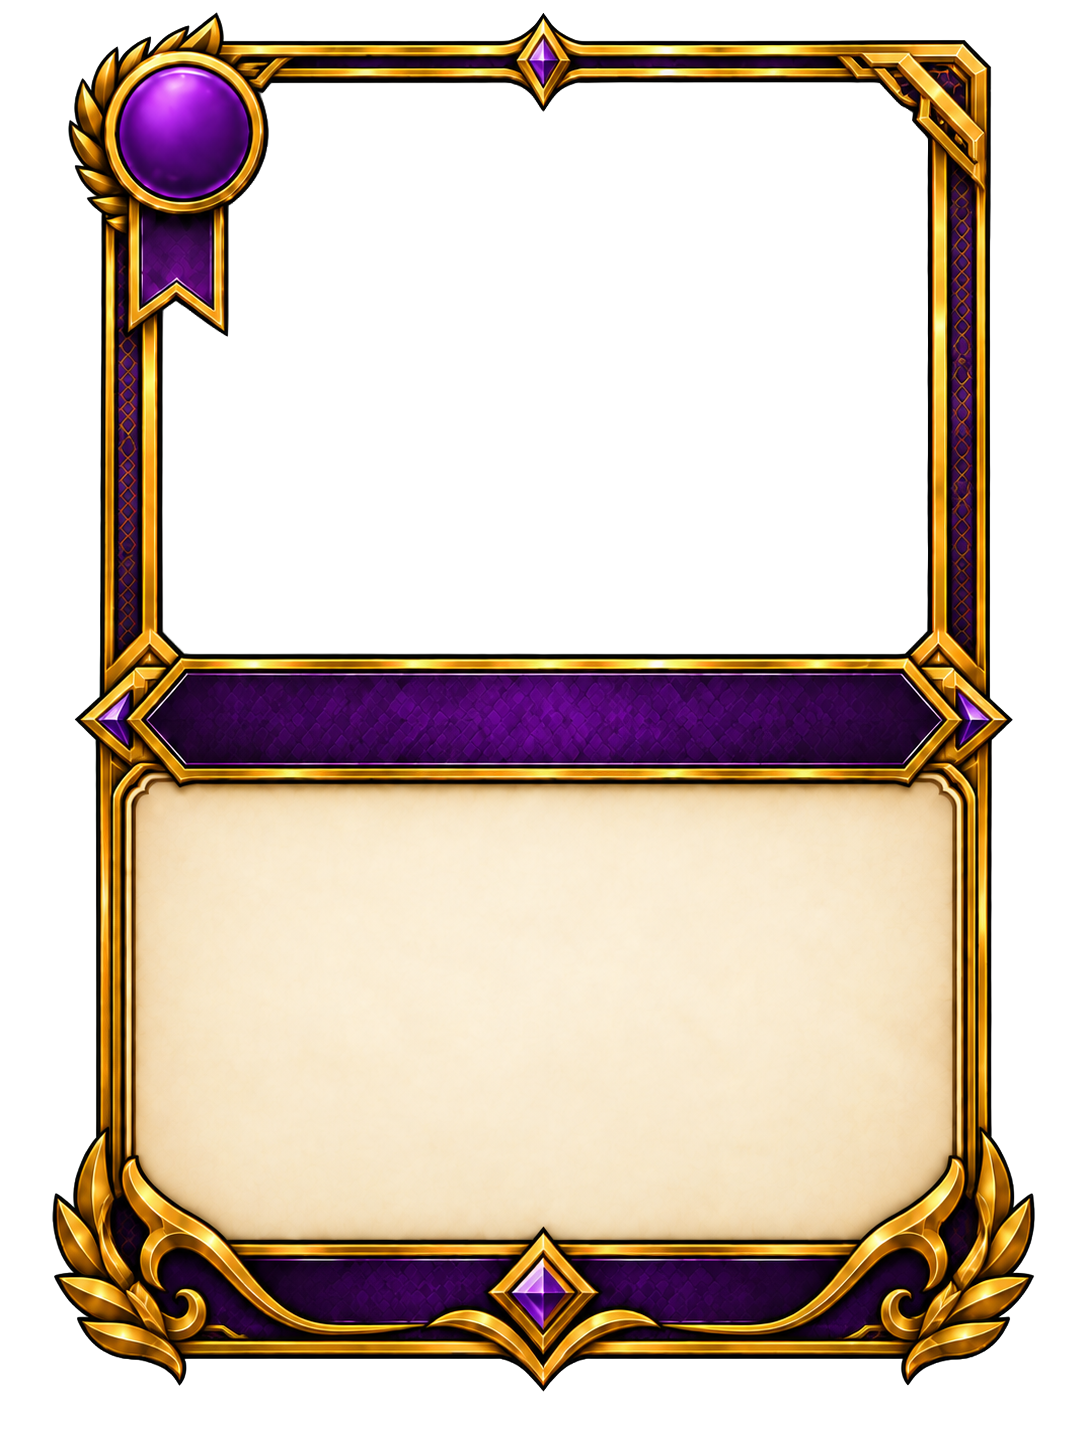
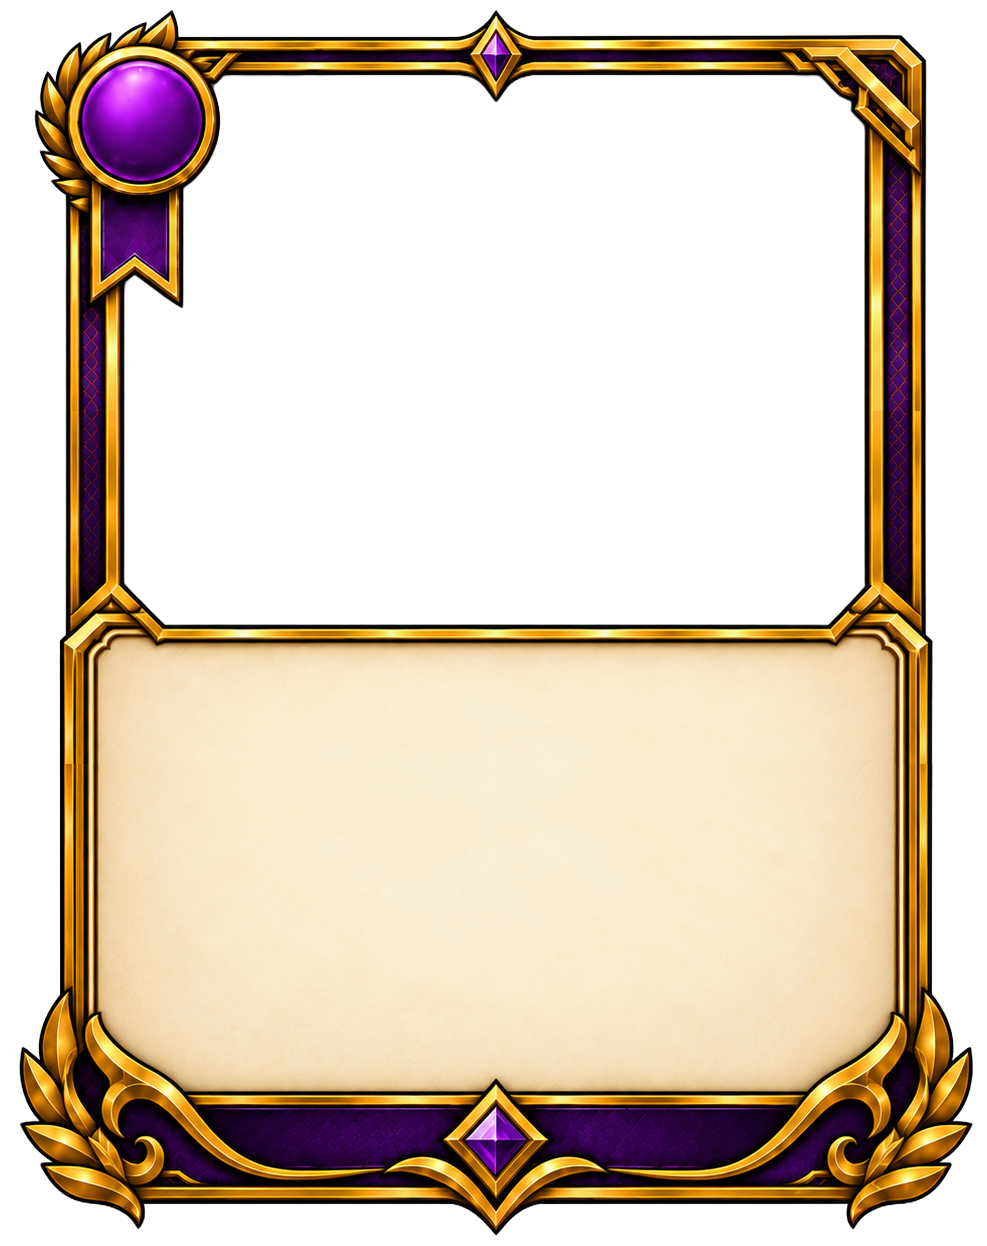
Card face: the name big and black on the parchment, on the nameplate-free frames
The designer's revised frames drop the name banner. The name is now set in
Cinzel, black, at the top of the parchment, fitted to its width; the tag and
era sit under it in gold; the rules follow. Both frames (Character
1103×1426, Event 987×1246 fitted into the same box) get their own window,
medallion, ribbon and parchment geometry. The tag pill and the era line are
gone.

Claude-Session: https://claude.ai/code/session_01CdCWBBELLp3cWMWqqhgQtC

diff --git a/src/ui/theme.css b/src/ui/theme.css
@@ -1518,59 +1518,55 @@ body.board-shake .battlefield { animation: board-shake 0.32s cubic-bezier(0.36, 
 @media (prefers-reduced-motion: reduce) { .hand-wrap { transition: none; } .hand-wrap.nudge { animation: none; } .turn-flash { animation: turn-flash 0.6s ease-out forwards; } }
 
 /* ---------- The card face on the frame (docs/card-template.md) ----------
-   The designer's frame is one WebP with its art window knocked out; the portrait sits under it and everything else is
-   text placed by percentages of the card's width (cqw), so the same layout holds in the hand (~130px) and in the
-   Codex (~400px). Hand-size type has pixel floors so names and numbers stay legible; the parchment carries the
-   summary there and the full abilities on the big card, scrolling when they run long. */
-.card.tpl { container-type: inline-size; width: var(--card-w); height: auto; aspect-ratio: 1103 / 1426; display: block; overflow: visible; background: none !important; border: 0 !important; border-radius: 0 !important; clip-path: none !important; box-shadow: none; filter: drop-shadow(0 8px 16px rgba(0, 0, 0, 0.6)); color: var(--ink); font-family: var(--font); }
+   The designer's frames are WebP files with the art window knocked out (Character 1103 x 1426; Event 987 x 1246,
+   fitted into the same box): the portrait sits under the frame and everything else is text placed by percentages of
+   the card's width (cqw), so one layout holds in the hand (~130px) and in the Codex (~400px). The frames carry no
+   nameplate: the name is set big and black at the top of the parchment, the tag and era under it in gold, then the
+   rules (the summary at hand size; every ability and the blurb on the big card, scrolling when they run long). */
+.card.tpl { container-type: inline-size; width: var(--card-w); height: auto; aspect-ratio: 1103 / 1426; display: block; overflow: visible; background: none !important; border: 0 !important; border-radius: 0 !important; clip-path: none !important; box-shadow: none !important; filter: drop-shadow(0 8px 16px rgba(0, 0, 0, 0.6)); color: var(--ink); font-family: var(--font); }
 .card.tpl::before, .card.tpl::after { content: none !important; display: none !important; }
-/* A box-shadow on a frame with transparent corners paints a rectangle, so no rule may set one: glows are drop-shadows. */
-.card.tpl { box-shadow: none !important; }
-.card.tpl:not(.big) .tpl-tag { display: none; }
-.deck-panel .deck-cards .card.tpl:first-child { filter: drop-shadow(0 12px 22px rgba(0, 0, 0, 0.65)) drop-shadow(0 0 12px var(--pc-soft)); }
-.hand .card-wrap.unaffordable .card.tpl { filter: saturate(0.4) brightness(0.75) drop-shadow(0 8px 16px rgba(0, 0, 0, 0.6)); }
 .card.tpl.big { --bw: min(78vw, 400px); width: var(--bw); height: auto; aspect-ratio: 1103 / 1426; display: block; max-height: none; }
 .card.tpl > * { position: absolute; }
-.card.tpl .tpl-art { left: 12.7cqw; top: 7.4cqw; width: 74.2cqw; height: 51.8cqw; z-index: 1; overflow: hidden; display: grid; place-items: center; }
+/* The art window. */
+.card.tpl .tpl-art { left: 14cqw; top: 7.7cqw; width: 72cqw; height: 52.2cqw; z-index: 1; overflow: hidden; display: grid; place-items: center; }
+.card.tpl.event .tpl-art { left: 10.9cqw; top: 8.2cqw; width: 78.4cqw; height: 55.3cqw; }
 .card.tpl .tpl-art .tpl-art-img { position: absolute; inset: 0; width: 100%; height: 100%; object-fit: cover; object-position: center 18%; }
 .card.tpl .tpl-art .ini { font-family: var(--display); font-weight: 800; font-size: 18cqw; color: rgba(255, 255, 255, 0.85); }
 .card.tpl .tpl-frame { inset: 0; width: 100%; height: 100%; z-index: 2; pointer-events: none; user-select: none; }
 .card.tpl .card-note { z-index: 3; right: 15cqw; bottom: auto; top: 51cqw; }
+/* The medallions: cost top-left, Influence and Force bottom corners (the Event frame has laurels there instead). */
 .card.tpl .tpl-num { z-index: 5; font-family: var(--display); font-weight: 800; color: #fff; text-align: center; transform: translate(-50%, -50%); line-height: 1; text-shadow: 0 0.45cqw 0.9cqw rgba(0, 0, 0, 0.9), 0 0 1.4cqw rgba(0, 0, 0, 0.7), 0 0.18cqw 0.27cqw rgba(0, 0, 0, 0.9); }
 .card.tpl .tpl-cost { left: 16.5cqw; top: 11.8cqw; font-size: max(8.3cqw, 11px); }
+.card.tpl.event .tpl-cost { left: 14cqw; top: 13.6cqw; font-size: max(9cqw, 11px); }
 .card.tpl .tpl-cost.discounted { color: #d8ffe4; filter: drop-shadow(0 0 0.8cqw #7ef0a0); }
-.card.tpl .tpl-inf { left: 14.4cqw; top: 112.8cqw; font-size: max(9cqw, 12px); }
-.card.tpl .tpl-force { left: 85.6cqw; top: 112.8cqw; font-size: max(9cqw, 12px); }
-/* The Event frame (1086 x 1448, fitted into the 1103 x 1426 box) puts its medallion and ribbon 14px to the right of the
-   Character frame's, and its bottom band is narrower, between the laurels. */
-.card.tpl.event .tpl-cost { left: 17.8cqw; top: 11.6cqw; }
-.card.tpl.event .tpl-kind { left: 17.8cqw; top: 23.6cqw; }
-/* The Event frame's bottom band has a gem rising through its middle, so it carries no text; the pill already says Event. */
-.card.tpl.event .tpl-strip { display: none; }
-/* The Event frame carries laurels where the Character frame has its Influence and Force medallions: nothing to print there. */
+.card.tpl .tpl-inf { left: 13.6cqw; top: 112.9cqw; font-size: max(9cqw, 12px); }
+.card.tpl .tpl-force { left: 85.7cqw; top: 112.9cqw; font-size: max(9cqw, 12px); }
 .card.tpl .tpl-ev { display: none; }
 .card.tpl .tpl-kind { z-index: 5; left: 16.6cqw; top: 23.75cqw; transform: translate(-50%, -50%); width: 5.8cqw; height: 5.8cqw; }
+.card.tpl.event .tpl-kind { left: 13.6cqw; top: 26.3cqw; width: 6.2cqw; height: 6.2cqw; }
 .card.tpl .tpl-kind svg { width: 100%; height: 100%; fill: none; stroke: #f6d77a; stroke-width: 5; stroke-linejoin: round; stroke-linecap: round; filter: drop-shadow(0 0.27cqw 0.45cqw rgba(0, 0, 0, 0.85)); }
-.card.tpl .tpl-name { z-index: 3; left: 16cqw; right: 16cqw; top: 61.3cqw; height: 7cqw; display: flex; align-items: center; justify-content: center; transform-origin: 50% 50%; overflow: visible; font-family: var(--display); font-weight: 800; font-size: max(5.98cqw, 8.5px); letter-spacing: 0.03em; color: var(--parchment); text-shadow: 0 0.27cqw 0.54cqw rgba(0, 0, 0, 0.7); white-space: nowrap; padding: 0; line-height: 1; }
-.card.tpl .tpl-name.long { font-size: max(4.9cqw, 7.5px); }
-.card.tpl .tpl-name.xlong { font-size: max(4cqw, 6.5px); }
-.card.tpl .tpl-tag { z-index: 4; left: 50%; top: 67.3cqw; transform: translateX(-50%); padding: 0.54cqw 4cqw; margin: 0; background: linear-gradient(180deg, #2d63d6, #12308a); border: 0.36cqw solid var(--gold); border-radius: 0.9cqw; clip-path: none; font-family: var(--display); font-weight: 700; font-size: max(2.9cqw, 5.5px); letter-spacing: 0.22em; text-transform: uppercase; color: #fff; box-shadow: 0 0.36cqw 0.9cqw rgba(0, 0, 0, 0.5); white-space: nowrap; max-width: 70%; overflow: hidden; text-overflow: ellipsis; line-height: 1.2; }
-.card.tpl.k-mythic .tpl-tag { background: linear-gradient(180deg, #c0392b, #6a1410); }
-.card.tpl.k-artist .tpl-tag { background: linear-gradient(180deg, #2f9a5c, #145233); }
-.card.tpl.k-informant .tpl-tag { background: linear-gradient(180deg, #5a6478, #2b323f); }
-.card.tpl.k-event .tpl-tag { background: linear-gradient(180deg, #7a5cc6, #3a2570); }
-.card.tpl.k-curse .tpl-tag { background: linear-gradient(180deg, #4a2d6b, #1d1030); }
-.card.tpl .tpl-era { z-index: 3; left: 0; right: 0; top: 73.1cqw; text-align: center; font-family: var(--display); font-weight: 700; font-size: 2.7cqw; letter-spacing: 0.12em; color: #2a2418; }
-.card.tpl .tpl-rules { z-index: 3; left: 14.5cqw; right: 13.6cqw; top: 77.8cqw; height: 26.8cqw; padding-right: 1.2cqw; font-size: 4.2cqw; line-height: 1.22; font-weight: 500; color: var(--ink); overflow-y: auto; overscroll-behavior: contain; scrollbar-width: thin; scrollbar-color: #c9a53a transparent; }
-.card.tpl:not(.big) .tpl-rules { top: 73.5cqw; height: 31cqw; overflow: hidden; }
+/* The parchment: name, meta line, rules. */
+.card.tpl .tpl-body { z-index: 3; left: 15cqw; right: 14.3cqw; top: 65cqw; height: 39cqw; display: flex; flex-direction: column; align-items: stretch; gap: 0; }
+.card.tpl.event .tpl-body { left: 13cqw; right: 12.8cqw; top: 67.5cqw; height: 37cqw; }
+.card.tpl .tpl-name { position: static; display: flex; justify-content: center; align-items: center; flex: none; width: 100%; font-family: var(--display); font-weight: 800; font-size: max(6.2cqw, 8.5px); line-height: 1.08; letter-spacing: 0.02em; color: #14110c; white-space: nowrap; padding: 0.4cqw 0 0; transform-origin: 50% 50%; overflow: visible; text-shadow: none; }
+.card.tpl .tpl-name.long { font-size: max(5.2cqw, 7.5px); }
+.card.tpl .tpl-name.xlong { font-size: max(4.4cqw, 6.5px); }
+.card.tpl .tpl-meta { position: static; flex: none; text-align: center; font-family: var(--display); font-weight: 700; font-size: max(2.5cqw, 5px); letter-spacing: 0.16em; text-transform: uppercase; color: #8a6a14; padding: 0.6cqw 0 0.9cqw; border-bottom: 0.18cqw solid #c9a53a; margin-bottom: 1cqw; white-space: nowrap; overflow: hidden; text-overflow: ellipsis; }
+.card.tpl:not(.big) .tpl-meta { display: none; }
+.card.tpl .tpl-rules { position: static; flex: 1 1 auto; min-height: 0; padding-right: 1.2cqw; font-size: 4cqw; line-height: 1.22; font-weight: 500; color: var(--ink); overflow-y: auto; overscroll-behavior: contain; scrollbar-width: thin; scrollbar-color: #c9a53a transparent; }
+.card.tpl:not(.big) .tpl-rules { overflow: hidden; padding-top: 1cqw; }
 .card.tpl .tpl-summary { font-family: var(--font); font-weight: 600; font-size: max(4.4cqw, 7.5px); line-height: 1.15; text-align: center; color: #2a2418; }
-.card.tpl .tpl-rules .kw { font-family: var(--display); font-weight: 800; font-size: 3.6cqw; letter-spacing: 0.05em; color: #12308a; }
+.card.tpl .tpl-rules .kw { font-family: var(--display); font-weight: 800; font-size: 3.5cqw; letter-spacing: 0.05em; color: #12308a; }
+.card.tpl.event .tpl-rules .kw { color: #4a2d8a; }
 .card.tpl .tpl-sep { text-align: center; color: #b58a1c; font-size: 2.5cqw; margin: 0.9cqw 0 0.7cqw; position: relative; }
 .card.tpl .tpl-sep::before, .card.tpl .tpl-sep::after { content: ''; position: absolute; top: 55%; width: 42%; border-top: 0.18cqw solid #c9a53a; }
 .card.tpl .tpl-sep::before { left: 0; } .card.tpl .tpl-sep::after { right: 0; }
-.card.tpl .tpl-blurb { margin-top: 1.3cqw; padding-top: 1.1cqw; border-top: 0.18cqw dotted #c9a53a; font-style: italic; color: #4a3f28; font-size: 3.6cqw; }
-.card.tpl .tpl-strip { z-index: 3; left: 24.5cqw; right: 24.5cqw; top: 112.4cqw; height: 5cqw; display: flex; align-items: center; justify-content: center; text-align: center; font-family: var(--display); font-weight: 600; font-size: 2.3cqw; letter-spacing: 0.14em; text-transform: uppercase; line-height: 1.1; color: var(--parchment); text-shadow: 0 0.18cqw 0.27cqw rgba(0, 0, 0, 0.7); white-space: nowrap; overflow: hidden; text-overflow: ellipsis; }
+.card.tpl .tpl-blurb { margin-top: 1.3cqw; padding-top: 1.1cqw; border-top: 0.18cqw dotted #c9a53a; font-style: italic; color: #4a3f28; font-size: 3.5cqw; }
+/* The bottom band: the Character's tags; the Event band has a gem through its middle and carries nothing. */
+.card.tpl .tpl-strip { z-index: 3; left: 25cqw; right: 25cqw; top: 112.2cqw; height: 5cqw; display: flex; align-items: center; justify-content: center; text-align: center; font-family: var(--display); font-weight: 600; font-size: 2.3cqw; letter-spacing: 0.14em; text-transform: uppercase; line-height: 1.1; color: var(--parchment); text-shadow: 0 0.18cqw 0.27cqw rgba(0, 0, 0, 0.7); white-space: nowrap; overflow: hidden; text-overflow: ellipsis; }
+.card.tpl.event .tpl-strip { display: none; }
 .card.tpl.curse .tpl-rules, .card.tpl.curse .tpl-summary { color: #2a1d40; }
-.hand .card-wrap.unaffordable .card.tpl { box-shadow: none; }
+.hand .card-wrap.unaffordable .card.tpl { box-shadow: none; filter: saturate(0.4) brightness(0.75) drop-shadow(0 8px 16px rgba(0, 0, 0, 0.6)); }
+.deck-panel .deck-cards .card.tpl:first-child { filter: drop-shadow(0 12px 22px rgba(0, 0, 0, 0.65)) drop-shadow(0 0 12px var(--pc-soft)); }
 @media (width <= 700px) { .card.tpl.big { --bw: min(84vw, 360px); } }
 .dig-card .card.tpl.big { --bw: min(30vw, 300px); }

diff --git a/src/ui/components/CardFace.tsx b/src/ui/components/CardFace.tsx
@@ -154,28 +154,30 @@ export function CardFace({ id, big = false, onClick, cost, costWhy, note }: { id
       <div className="tpl-kind" aria-hidden>
         {KIND_ICONS[kind]}
       </div>
-      <div className={`tpl-name ${nameSize(name)}`} ref={nameRef}>
-        <span>{name}</span>
+      {/* The parchment: the name big and black at the top, the tag and era under it in gold, then the rules. */}
+      <div className="tpl-body">
+        <div className={`tpl-name ${nameSize(name)}`} ref={nameRef}>
+          <span>{name}</span>
+        </div>
+        {!placeholders && <div className="tpl-meta">{isChar ? `${ribbonFor(def)}${def.era ? ` · ${def.era}` : ''}` : ribbonFor(def)}</div>}
+        <div className="tpl-rules">
+          {big ? (
+            <>
+              {lines.map((l, i) => (
+                <div key={l.label}>
+                  {i > 0 && <div className="tpl-sep" aria-hidden>◆</div>}
+                  <span className="kw">{l.label}:</span> {l.text}
+                </div>
+              ))}
+              {!placeholders && <div className="tpl-blurb">{def.blurb}</div>}
+            </>
+          ) : (
+            !placeholders && <div className="tpl-summary">{abilityFor(def)}</div>
+          )}
+        </div>
       </div>
-      {!placeholders && <div className="tpl-tag">{ribbonFor(def)}</div>}
-      {big && isChar && !placeholders && <div className="tpl-era">{def.era}</div>}
-      <div className="tpl-rules">
-        {big ? (
-          <>
-            {lines.map((l, i) => (
-              <div key={l.label}>
-                {i > 0 && <div className="tpl-sep" aria-hidden>◆</div>}
-                <span className="kw">{l.label}:</span> {l.text}
-              </div>
-            ))}
-            {!placeholders && <div className="tpl-blurb">{def.blurb}</div>}
-          </>
-        ) : (
-          !placeholders && <div className="tpl-summary">{abilityFor(def)}</div>
-        )}
-      </div>
-      {big && !placeholders && <div className="tpl-strip">{strip}</div>}
-      {isChar ? (
+      {big && isChar && !placeholders && <div className="tpl-strip">{strip}</div>}
+      {isChar && (
         <>
           <div className="tpl-num tpl-inf" {...tip(HINTS.influence)}>
             {def.influence}
@@ -184,10 +186,6 @@ export function CardFace({ id, big = false, onClick, cost, costWhy, note }: { id
             {def.force}
           </div>
         </>
-      ) : (
-        <div className="tpl-num tpl-ev" aria-hidden {...tip(HINTS.event)}>
-          EV
-        </div>
       )}
     </div>
   );

diff --git a/README.md b/README.md
@@ -37,7 +37,7 @@ The engine never imports React. The UI never touches the true `GameState` except
 - **The hand** is one machine for mouse, touch and the Unity port, drawn from how Hearthstone, Runeterra, Snap and Slay the Spire do it: a card is *fanned*, *hovered* (mouse only, no memory: it straightens, lifts and grows to 1.32x the moment the pointer arrives and eases back the moment it leaves; the wrapper never moves, so the hit box is stable), *open* (a tap expands it into the Codex card, the 3D card with its history, and while it is open the card stands with its Locations lit and the tray offers "Play at …" and "Put back"; closing the Codex puts it down, so nothing is ever left standing; a card that cannot be played opens with the reason), *held* (the fan card dims while its ghost rides the pointer; a refused drop or Escape flies the ghost back to its slot with a low thud), or *reading* (the same Codex card, also from right-click or a half-second touch hold). Keys 1-3 play the standing card at that Location; Enter stands a focused card or plays into a lit Location. An unplayable card that is tapped shakes and the toast says why.
 - **Tutorial**: the start screen's *Tutorial* button plays seed 7 with Railroad vs Black Star, stops the clock, and walks the first five turns one lesson at a time: reading lessons modal the board out behind a card, doing lessons spotlight the exact card, tile, Threat or button and wait for it (Energy, Gates, entering, Threats, Stand on Business). After Turn 5 the regular coach takes over; the clock stays stopped for the rest of the match. Script: `src/ui/tutorial.ts`.
 - **Watch**: after both players lock in, the turn plays out one beat at a time (Hearthstone/Snap style): each play, Event, Reveal, entry, move, clash and Showdown gets its own banner and spotlight, and the Location tally lands last. Events sit face-up in the Event slot they were played into (the opponent's face-down) until their beat, then flip and flare. Skip ▸▸ jumps to the settled board. `resolveTurn(state, plans, { trace: true })` returns the same beats as `TraceStep`s.
-- **The card face is the designer's frame.** `CardFace` lays every card out on one WebP frame (`public/art/frames`, the art window knocked out so the portrait sits under it), with every slot placed in percentages of the card's width, so the hand card and the Codex card are one layout at two sizes. The hand card carries the summary on the parchment; the Codex card prints every ability and the blurb and scrolls when they run long. Cost, Influence and Force sit in the frame's green, gold and red medallions; a kind icon sits in the ribbon under the cost; the tag pill takes the kind's colour. Events take their own purple frame (`frames/event.webp`, the designer's 1086 × 1448 export fitted into the same 1103 × 1426 box so one layout serves both). Measurements and the reasoning: `docs/card-template.md`.
+- **The card face is the designer's frame.** `CardFace` lays every card out on the designer's WebP frames (`public/art/frames`, the art window knocked out so the portrait sits under it), with every slot placed in percentages of the card's width, so the hand card and the Codex card are one layout at two sizes. The frames carry no nameplate: the name is set big and black at the top of the parchment, the tag and era under it in gold, then the rules (the summary at hand size; every ability and the blurb in the Codex, scrolling when they run long). Cost, Influence and Force sit in the frame's green, gold and red medallions; a kind icon sits in the ribbon under the cost. Events take their own purple frame (`frames/event.webp`, the designer's 1086 × 1448 export fitted into the same 1103 × 1426 box so one layout serves both). Measurements and the reasoning: `docs/card-template.md`.
 - **Power animations on the board** (one at a time, tuned by hand): Robert Duncanson's landscape sends a particle trail to every Location he paints, landing as embers rising off the Location with a +1 (`Trails.tsx`, whose `spray` look is the sparks and shockwave of a blow and whose `wave` is a healed Location's light spreading, so a power reaching across, a blow landing and good news never look alike; a cleared Threat gets its own fireworks; the full set is under "Effects library" below); Zora Neale Hurston's Folklore presents the top two cards in the centre of the screen, the dearer one lights up and rides a trail into the hand, the other flips and returns to the deck (`DigReveal.tsx`; the opponent sees the backs and still sees one kept). Both key off event `data` (`trail`, `dig`) and hold the replay beat until they land. Dev hooks `window.__sobTrail` and `window.__sobDig` preview them from the console with a freeze option.
 - **Win**: lead Influence at two of the three Locations after Turn 8.
 - **Legacy** is what the match is worth. Stand on Business once per player to multiply it, and the earlier the bolder: ×4 on turns 1–2, ×3 on turns 3–5, ×2 from turn 6 (`STAND_MULTIPLIERS`, capped at `MAX_STAKES` 16), win or lose. It also adds a 9th turn, and whoever stood can no longer Sit Down. The raise lands one turn later, Marvel Snap style: the other side gets a full turn to Sit Down at the old price, keep playing, or Stand back. Sit Down is a retreat: the match ends the moment you confirm it (`retreat()` in the engine, no plan, no deliberation) and the other side takes the current Legacy.

diff --git a/docs/ART_SPEC.md b/docs/ART_SPEC.md
@@ -10,7 +10,7 @@ Drop files into `public/art/<kind>/<id>.jpg`. The UI loads them by id and falls 
 | Location banner | `public/art/locations/<id>.jpg` | 1200 × 400, JPG, quality 80, under 200 KB | 3:1 wide scene. Keep the important content in the middle 70%: the name is overlaid in the centre and the era bottom-right. Mid-to-dark values so white type stays legible. |
 | Threat | `public/art/threats/<id>.jpg` | 512 × 512, JPG | Symbolic, not a portrait of a person. Used in the Threat sheet. |
 | Event | `public/art/events/<id>.jpg` | 512 × 512, JPG | Symbolic. Shown in the Event card's art window. |
-| Card frame | `public/art/frames/<kind>.webp` and `<kind>-sm.webp` | 1103 × 1426 and 552 × 714, WebP with alpha | The designer's frame with the art window knocked out: `character` (blue) and `event` (purple; the 1086 × 1448 export is fitted into the 1103 × 1426 box, centred, so both frames share one layout). See `docs/card-template.md`. |
+| Card frame | `public/art/frames/<kind>.webp` and `<kind>-sm.webp` | 1103 × 1426 and 552 × 714, WebP with alpha | The designer's frame with the art window knocked out: `character` (blue, 1103 × 1426) and `event` (purple, 987 × 1246, fitted into the 1103 × 1426 box, centred). No nameplate: the name is typeset on the parchment. See `docs/card-template.md`. |
 
 Style: one consistent painterly treatment across the set (the same brush, the same palette temperature) so archetypes and historical figures sit together. Historical figures should be recognisable but not photographic. Archetypes (Organizer, OG, Karen, Pullman Porter) are invented people, period-appropriate.
 

diff --git a/docs/card-template.md b/docs/card-template.md
@@ -1,5 +1,10 @@
 # The universal card template
 
+> Revised: the frames now carry no nameplate (`card-frame.png`, `card-frame-event.png` are the current exports).
+> The name is set big and black at the top of the parchment with the tag and era under it in gold, then the rules.
+> The Event frame is 987 × 1246 and is fitted into the 1103 × 1426 box. The slot table below describes the earlier
+> nameplate layout; the live measurements are the `.card.tpl` rules in `src/ui/theme.css`.
+
 The frame the designer supplied (`docs/card-template/card-template.png`, 1103 × 1426) is the one card face for every
 kind of card, in the game since build 174 (`src/ui/components/CardFace.tsx`, the `.card.tpl` rules in `theme.css`, the
 frame exported as WebP at 1103 and 552 px in `public/art/frames`): Characters, Mythics, Artists, Informants, Events and Curses. This note records how it is
